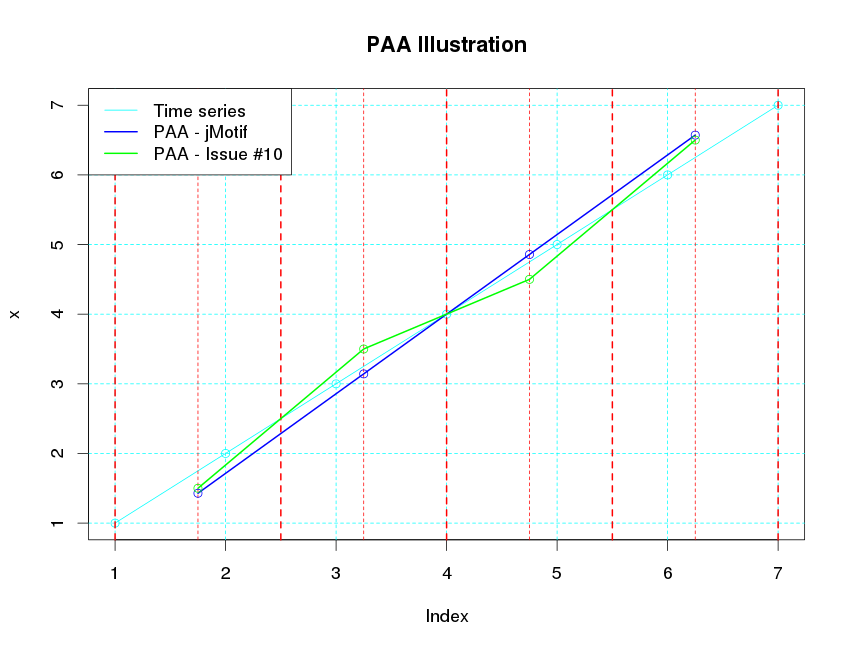
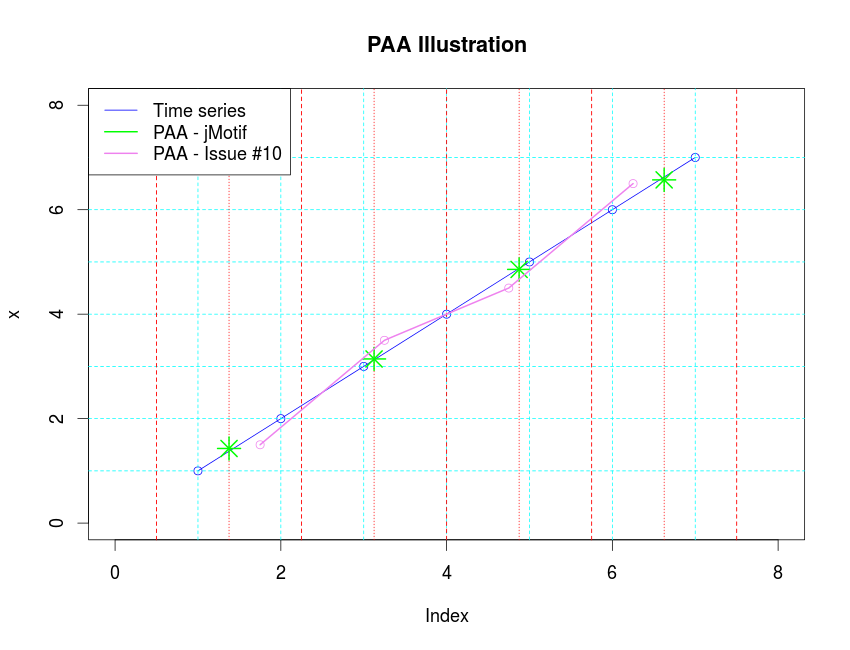
working on PAA and approx. distance

diff --git a/src/main/java/net/seninp/jmotif/sax/SAXProcessor.java b/src/main/java/net/seninp/jmotif/sax/SAXProcessor.java
@@ -403,7 +403,7 @@ public final class SAXProcessor {
       // PAA value and the real TS value
       //
       for (int j = 0; j < subseries.length; j++) {
-        int paaIdx = (int) Math.round((double) j / pointsPerWindow) - 1;
+        int paaIdx = (int) Math.round((double) j / (double) pointsPerWindow) - 1;
         if (paaIdx < 0) {
           paaIdx = 0;
         }
@@ -411,6 +411,7 @@ public final class SAXProcessor {
           paaIdx = paa.length - 1;
         }
         resDistance = resDistance + ed.distance(paa[paaIdx], subseries[j]);
+        System.out.println(paaIdx + " == " + resDistance);
       }
 
     }

diff --git a/src/test/java/net/seninp/jmotif/sax/TestApproxDistance.java b/src/test/java/net/seninp/jmotif/sax/TestApproxDistance.java
@@ -7,7 +7,7 @@ import org.junit.Test;
 public class TestApproxDistance {
 
   private static final double[] series = { 1., 2., 3., 4., 5., 6., 7., 8., 9., 10., 11., 12., 13.,
-      14., 15 };
+      14., 15. };
 
   private SAXProcessor sp;
 
@@ -20,7 +20,7 @@ public class TestApproxDistance {
   public void test() {
     double dist;
     try {
-      dist = sp.approximationDistance(series, 14, 7, 5.0);
+      dist = sp.approximationDistance(series, 15, 7, 5.0);
       assertEquals("testing approx distance", 4.472136, dist, 0.000001);
     }
     catch (Exception e) {
